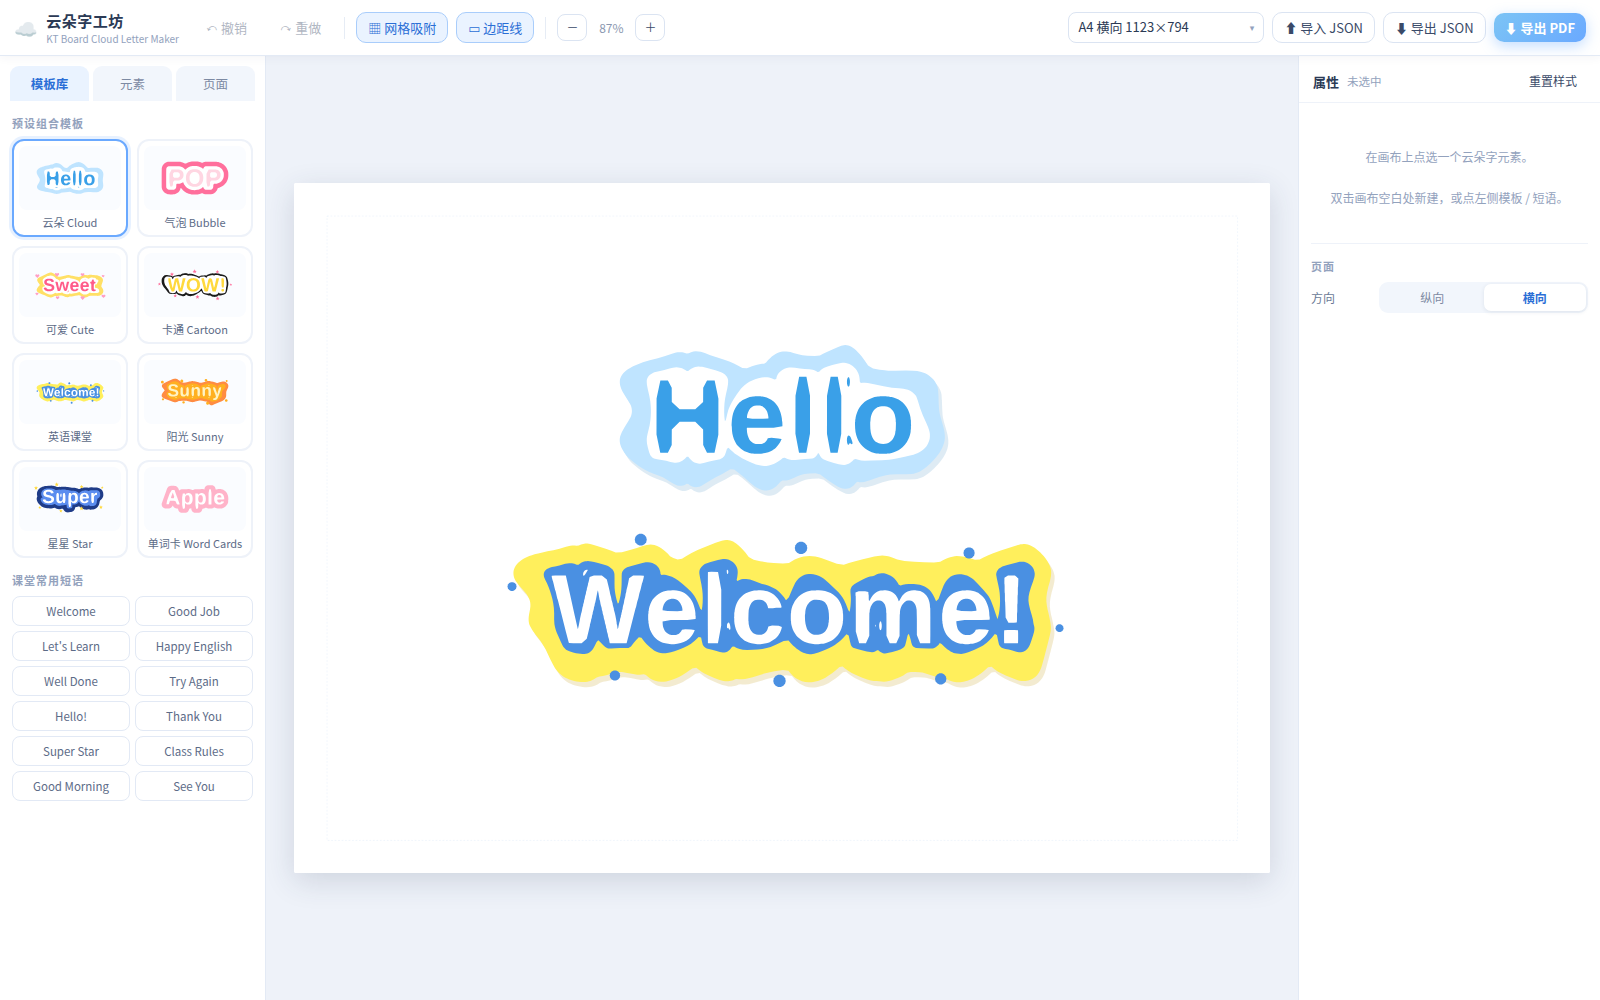
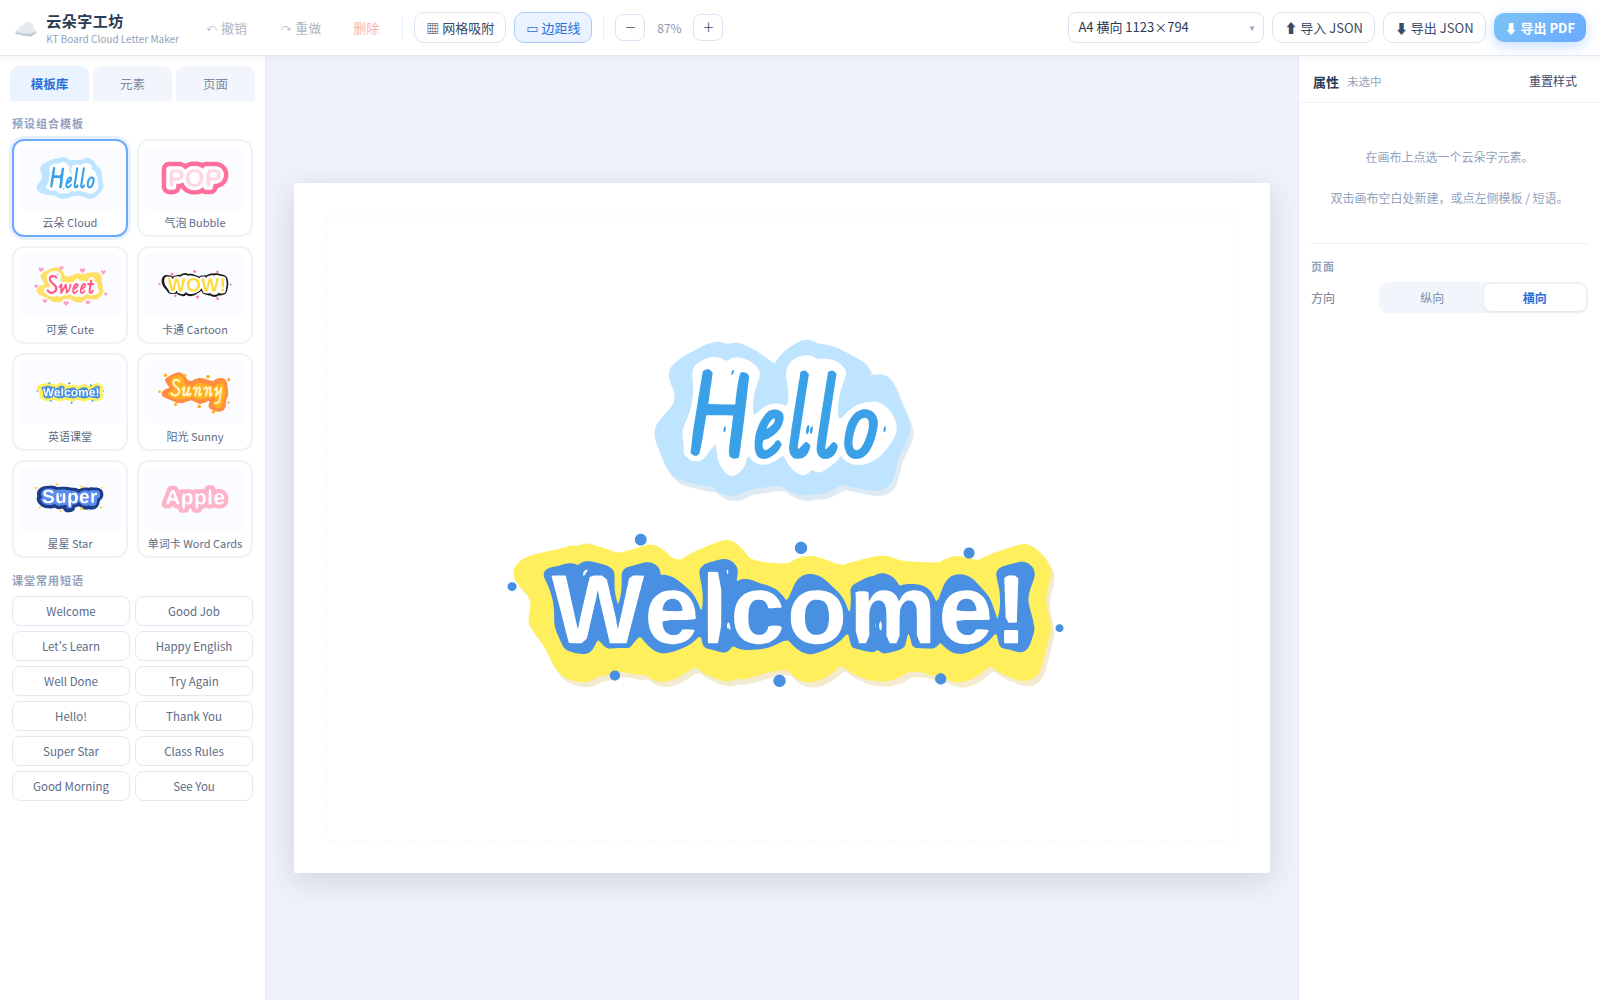
feat: 内嵌手写体并设为默认字体，修正选中手柄尺寸
- 内嵌 xumin TTF（base64 @font-face），字体列表只保留 手写体 + 圆体
- 手写体设为默认字体，云朵/可爱/阳光模板使用手写体
- 字体异步就绪后清几何缓存重描，避免先用回退字体描边
- 选中框手柄恢复 13px 半径 / 4px 描边 / 15px 虚线（改 px 时漏了换算，被压小 3.8 倍）
- 顶栏删除按钮改为红色、去掉图标
- 网格吸附默认关闭

diff --git a/index.html b/index.html
@@ -5,6 +5,7 @@
 <meta name="viewport" content="width=device-width,initial-scale=1">
 <title>KT 板云朵字生成器 · Cloud Letter Maker</title>
 <style>
[1 lines of base64/hex data omitted]
 *{box-sizing:border-box}
 html,body{height:100%;margin:0}
 body{font-family:"PingFang SC","Hiragino Sans GB","Microsoft YaHei",system-ui,sans-serif;background:#eef2f9;color:#2b3a55;overflow:hidden;display:flex;flex-direction:column;font-size:13px;-webkit-font-smoothing:antialiased}
@@ -18,6 +19,9 @@ button,input,select,textarea{font-family:inherit;font-size:13px;color:inherit}
 .btn:hover{background:#f3f8ff;border-color:#b9d3f7;color:#2b6fd6}
 .btn:active{transform:translateY(1px)}
 .btn:disabled{opacity:.4;cursor:not-allowed;transform:none}
+.btn.danger{color:#e5484d;border-color:transparent;background:transparent}
+.btn.danger:hover{background:#fff1f1;border-color:#ffd2d2;color:#cf2f36}
+.btn.danger:disabled:hover{background:transparent;border-color:transparent;color:#e5484d}
 .btn.primary{background:linear-gradient(135deg,#7cc4f5,#6aa9ff);border:0;color:#fff;box-shadow:0 4px 14px rgba(106,169,255,.4);font-weight:600}
 .btn.primary:hover{filter:brightness(1.05);color:#fff}
 .btn.ghost{border-color:transparent;background:transparent}
@@ -109,7 +113,7 @@ hr{border:0;border-top:1px solid #eef2f9;margin:14px 0}
   <div class="brand"><i>☁</i><span>云朵字工坊<small>KT Board Cloud Letter Maker</small></span></div>
   <button class="btn ghost" id="btnUndo" title="撤销 Ctrl+Z">↶ 撤销</button>
   <button class="btn ghost" id="btnRedo" title="重做 Ctrl+Shift+Z">↷ 重做</button>
-  <button class="btn ghost" id="btnDelSel" title="删除选中元素 (Delete)" disabled>🗑 删除</button>
+  <button class="btn danger" id="btnDelSel" title="删除选中元素 (Delete)" disabled>删除</button>
   <span class="tbsep"></span>
   <button class="btn" id="btnSnap" title="拖拽时吸附到 20px 网格">▦ 网格吸附</button>
   <button class="btn" id="btnGuides" title="显示可打印区域">▭ 边距线</button>
@@ -210,12 +214,7 @@ const A4 = { w: 210 * PXMM, h: 297 * PXMM };
 /* ---------------- 字体 ---------------- */
 const FONTS = {
   round: { name: '圆体 Rounded', stack: '"Arial Rounded MT Bold","Varela Round",Nunito,"Trebuchet MS","Segoe UI",sans-serif' },
-  comic: { name: '漫画 Comic', stack: '"Comic Sans MS","Chalkboard SE","Comic Neue","Trebuchet MS",cursive' },
-  black: { name: '超粗 Impact', stack: 'Impact,"Arial Black","Haettenschweiler","Anton",sans-serif' },
-  sans: { name: '无衬线 Sans', stack: 'Helvetica,Arial,"Segoe UI",Roboto,sans-serif' },
-  serif: { name: '衬线 Serif', stack: 'Georgia,"Times New Roman",Times,serif' },
-  script: { name: '手写 Script', stack: '"Segoe Script","Bradley Hand","Brush Script MT","Comic Sans MS",cursive' },
-  mono: { name: '等宽 Mono', stack: '"Courier New",Courier,monospace' }
+  hand: { name: '手写体 Hand', stack: "'CLHand',cursive" }
 };
 const fontStack = st => (FONTS[st.font] || FONTS.round).stack;
 const LINE_HEIGHT = 1.12;   /* 多行固定行距 */
@@ -610,7 +609,7 @@ function getGeo(st) {
    ========================================================= */
 const DEFAULT_STYLE = {
   text: 'Hello',
-  font: 'round', weight: 900, size: 113, letterSpacing: 0.02,
+  font: 'hand', weight: 900, size: 113, letterSpacing: 0.02,
   fill: '#3aa0e8',
   outline: 'cloud', outerColor: '#bfe4ff', outerWidth: 34, innerColor: '#ffffff', innerWidth: 13,
   bumpSize: 57, bumpAmp: 0.22,
@@ -623,27 +622,28 @@ const STYLE_KEYS = Object.keys(DEFAULT_STYLE);
 function pruneStyle(st) {
   if (!st || typeof st !== 'object') return st;
   Object.keys(st).forEach(k => { if (STYLE_KEYS.indexOf(k) < 0) delete st[k]; });
+  if (st.font && !FONTS[st.font]) st.font = 'round';
   return st;
 }
 const T = (id, name, text, style) => ({ id, name, text, style });
 const TEMPLATES = [
   T('cloud', '云朵 Cloud', 'Hello', {
-    font: 'round', size: 121, outline: 'cloud', bumpSize: 57, bumpAmp: 0.22,
+    font: 'hand', size: 121, outline: 'cloud', bumpSize: 57, bumpAmp: 0.22,
     fill: '#3aa0e8', innerColor: '#ffffff', innerWidth: 13, outerColor: '#bfe4ff', outerWidth: 34,
     shadow: true, shadowColor: '#4a90c2', shadowAlpha: 0.18
   }),
   T('bubble', '气泡 Bubble', 'POP', {
-    font: 'black', weight: 900, size: 129, outline: 'rounded', bumpSize: 60, bumpAmp: 0.08,
+    font: 'round', weight: 900, size: 129, outline: 'rounded', bumpSize: 60, bumpAmp: 0.08,
     fill: '#ffd6e2', innerColor: '#ffffff', innerWidth: 11, outerColor: '#ff6f9c', outerWidth: 26,
     shadow: true, shadowColor: '#ff6f9c', shadowAlpha: 0.3
   }),
   T('cute', '可爱 Cute', 'Sweet', {
-    font: 'round', size: 113, outline: 'cloud', bumpSize: 49, bumpAmp: 0.24,
+    font: 'hand', size: 113, outline: 'cloud', bumpSize: 49, bumpAmp: 0.24,
     fill: '#ff5c8a', innerColor: '#ffffff', innerWidth: 11, outerColor: '#ffe066', outerWidth: 28,
     deco: 'hearts', decoColor: '#ff9ec4', shadow: true, shadowColor: '#d99ab0', shadowAlpha: 0.25
   }),
   T('cartoon', '卡通 Cartoon', 'WOW!', {
-    font: 'black', weight: 900, size: 129, outline: 'cloud', bumpSize: 76, bumpAmp: 0.26,
+    font: 'round', weight: 900, size: 129, outline: 'cloud', bumpSize: 76, bumpAmp: 0.26,
     fill: '#ffd93d', innerColor: '#ffffff', innerWidth: 13, outerColor: '#1b1b1b', outerWidth: 21,
     deco: 'stars', decoColor: '#ff6f9c', shadow: true, shadowColor: '#1b1b1b', shadowAlpha: 0.22
   }),
@@ -653,12 +653,12 @@ const TEMPLATES = [
     deco: 'dots', decoColor: '#4a90e2', shadow: true, shadowColor: '#c9a227', shadowAlpha: 0.22
   }),
   T('sunny', '阳光 Sunny', 'Sunny', {
-    font: 'round', size: 121, outline: 'cloud', bumpSize: 49, bumpAmp: 0.24,
+    font: 'hand', size: 121, outline: 'cloud', bumpSize: 49, bumpAmp: 0.24,
     fill: '#fff3c4', innerColor: '#ffb020', innerWidth: 11, outerColor: '#ff8c42', outerWidth: 26,
     deco: 'dots', decoColor: '#ffb020', shadow: true, shadowColor: '#d97b1a', shadowAlpha: 0.25
   }),
   T('navy', '星星 Star', 'Super', {
-    font: 'sans', weight: 900, size: 113, outline: 'irregular', bumpSize: 60, bumpAmp: 0.3,
+    font: 'round', weight: 900, size: 113, outline: 'irregular', bumpSize: 60, bumpAmp: 0.3,
     fill: '#ffffff', innerColor: '#5b8def', innerWidth: 11, outerColor: '#1f3c88', outerWidth: 26,
     deco: 'stars', decoColor: '#ffd93d', shadow: true, shadowColor: '#12224d', shadowAlpha: 0.3
   }),
@@ -677,7 +677,7 @@ const state = {
   selected: [],
   currentPage: 0,
   zoom: 1,
-  snap: true,
+  snap: false,
   guides: true,
   grid: 20,
   tpl: 'cloud'
@@ -724,7 +724,8 @@ function selectionMarkup() {
   selectedEls().filter(e => e.page === state.currentPage && !e.hidden).forEach(el => {
     const geo = getGeo(el.style), sc = el.scale || 1;
     const w = geo.w / 2, h = geo.h / 2;
-    const hs = 3.4 / z / sc, sw = 1.1 / z / sc, dash = 4 / z / sc;
+    /* 手柄按屏幕像素恒定：13px 方块 / 4px 描边 / 15px 虚线（单位已随画布改为 px） */
+    const hs = 13 / z / sc, sw = 4 / z / sc, dash = 15 / z / sc;
     s += '<g transform="' + elTransform(el) + '" class="sel" data-sel="' + el.id + '">';
     s += '<rect x="' + n2(-w) + '" y="' + n2(-h) + '" width="' + n2(2 * w) + '" height="' + n2(2 * h) +
       '" fill="none" stroke="#6aa9ff" stroke-width="' + n2(sw) + '" stroke-dasharray="' + n2(dash) + ' ' + n2(dash * 0.7) + '" pointer-events="none"/>';
@@ -1750,6 +1751,12 @@ function boot() {
   hist.undo = [snapshot()];
   updateUndoBtns();
   fitZoom();
+  /* 内嵌手写体是异步加载的：到位后清掉几何缓存重绘，避免先用回退字体描边 */
+  if (document.fonts && document.fonts.load) {
+    Promise.all([document.fonts.load('400 100px CLHand'), document.fonts.load('900 100px CLHand')])
+      .then(() => { GEOCACHE.clear(); renderAll(); setTimeout(renderTemplates, 0); })
+      .catch(() => {});
+  }
 }
 boot();
 

diff --git a/todo.md b/todo.md
@@ -54,7 +54,7 @@
 
 - [x] 实现英文文字输入。
 - [x] 实现多行文字支持。（换行符分行，整体一个连续轮廓）
-- [x] 实现字体切换。（7 种字体栈，实测 4 种渲染正常）
+- [x] 实现字体切换。（现为 2 种：圆体 + 内嵌手写体；手写体 TTF 以 base64 内嵌，字体就绪后自动清缓存重描）
 - [x] 实现字体颜色调整。（纯色 / 多色渐变）
 - [x] 实现文字大小和粗细调整。（8–120mm，400/700/900）
 - [x] 实现 SVG 文字轮廓生成。（Marching Squares + RDP + Chaikin）
@@ -131,7 +131,7 @@
 - [x] 实现页面刷新后恢复编辑状态。（实测刷新后元素、位置、颜色均恢复）
 - [x] 实现清空画布。（带 confirm 确认，可撤销）
 - [x] 实现恢复默认模板。（带 confirm 确认，可撤销）
-- [x] 检查所有第三方依赖。（零第三方依赖）
+- [x] 检查所有第三方依赖。（零第三方依赖；内嵌 1 个 TTF 字体，base64 写在 CSS 里）
 - [x] 确保不依赖 CDN。（全文仅 2 处 `http` 均为 SVG 命名空间 URI）
 - [x] 确保 file:// 环境可以正常运行。（全程在 `file://` 下开发与验证）
 - [x] 测试完全断网使用。（无任何网络请求，浏览器网络面板仅 1 条本文件请求）
@@ -168,7 +168,7 @@
 ## 已知限制（如实记录）
 
 1. **无文字对齐设置**：文字一律居中排版；元素原点即轮廓包围盒中心，可用「页面居中 / 左对齐 / 右对齐」等排列按钮整体定位。
-2. **浏览器兼容性**：只在 Chrome 验证。Safari 旧版不支持 `ctx.letterSpacing`，字间距参数会被忽略（不影响其他功能）。
+2. **浏览器兼容性**：只在 Chrome 验证。Safari 旧版不支持 `ctx.letterSpacing`，字间距参数会被忽略（不影响其他功能）。内嵌字体在首次渲染前会等 `document.fonts` 就绪。
 3. **字体依赖系统**：字体列表是字体栈，缺失的字体自动回退到同类系统字体，不同电脑上字形会略有差异（但都是矢量输出，打印清晰度不受影响）。
 4. **描边是折线矢量**：轮廓由高分辨率等值线 + 平滑生成，放大到极限（>1000%）能看到多边形顶点，正常 A4 打印尺寸下不可见。
 5. **阴影是硬偏移**：为了屏幕与 PDF 完全一致，阴影用偏移色块而非高斯模糊。

diff --git a/README.md b/README.md
@@ -30,7 +30,7 @@
 - 6 种轮廓：云朵、气泡、圆角、波浪、不规则、无
 - 三层描边（外框 + 内框 + 文字），颜色、粗细独立可调
 - 纯色或 2–6 色渐变填充、硬偏移立体阴影、圆点/星星/爱心/彩纸/小花装饰
-- 7 种字体栈，字号 30–450px，字重 400/700/900，字间距可调
+- 2 种字体：**手写体（默认）** + 圆体；手写体以 base64 内嵌，不依赖系统安装。字号 30–450px，字重 400/700/900，字间距可调
 
 **模板**
 - 8 套风格：Cloud / Bubble / Cute / Cartoon / 英语课堂 / Sunny / Star / 单词卡
@@ -66,6 +66,7 @@
 | 画布 | SVG，`viewBox` 单位 = px（96dpi，A4 = 793.7×1122.52px），与打印尺寸 1:1 |
 | 轮廓 | Canvas 掩膜 → 距离场 → Marching Squares → RDP + Chaikin |
 | PDF | 自研 PDF 1.4 写入器：`m/l/h/f*` 矢量折线、`cm` 矩阵做位移旋转缩放、`re W n` 裁切（px×0.75 = pt） |
+| 字体 | 手写体以 base64 内嵌进 CSS（`@font-face`），首次渲染会等字体就绪后自动重描，不会用回退字体出图 |
 | 依赖 | 无。全文只有 1 个 `<style>`、1 个 `<script>`，无任何外部请求 |
 
 ## 已知限制
